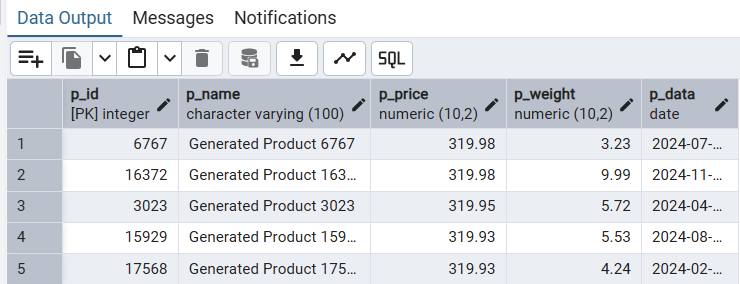
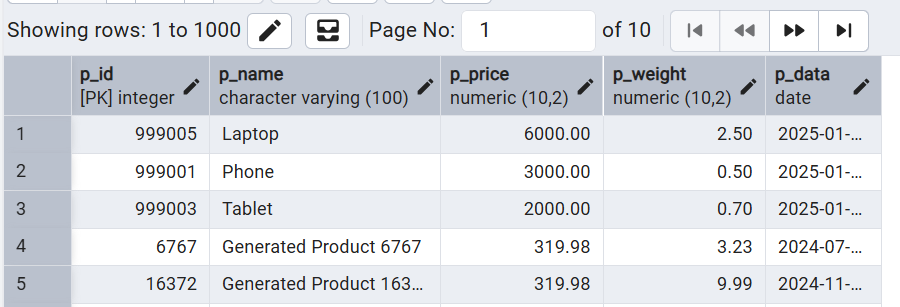
update README and add screenshots

diff --git a/DBProject/README.md b/DBProject/README.md
@@ -490,8 +490,10 @@ WHERE p.P_price > (
 ORDER BY p.P_price DESC;
 ```
 
-![הרצה](dbFiles/select4_run.png)
+
+![תוצאה](dbFiles/select4_run.png)
 ![תוצאה](dbFiles/select4_result.png)
+
 
 ## SELECT 5 – ספקים שיש להם הזמנות (השוואה בין IN ל־EXISTS)
 